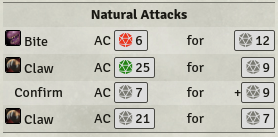
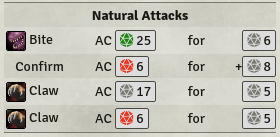
beautified readme example

diff --git a/README.md b/README.md
@@ -20,8 +20,8 @@ Provides highlighting of natural 1s and 20s, and confirmation rolls conditional 
 
 ##### With Images:
 
-    let img_bite = '<img src="https://assets.forge-vtt.com/bazaar/systems/pf1/assets/icons/items/inventory/monster-head.jpg" width="16" height="16">';
-    let img_claw = '<img src="https://assets.forge-vtt.com/bazaar/systems/pf1/assets/icons/items/inventory/monster-paw-bear.jpg" width="16" height="16">';
+    let img_bite = '<img src="https://assets.forge-vtt.com/bazaar/systems/pf1/assets/icons/items/inventory/monster-head.jpg" width="20" height="20" style="vertical-align: middle">';
+    let img_claw = '<img src="https://assets.forge-vtt.com/bazaar/systems/pf1/assets/icons/items/inventory/monster-paw-bear.jpg" width="20" height="20" style="vertical-align: middle">';
     let table = new AttackTable(`Natural Attacks`);
     table.addAttack(img_bite + ' Bite', 5, '1d8+4');
     table.addAttack(img_claw + ' Claw', 5, '1d6+4');
